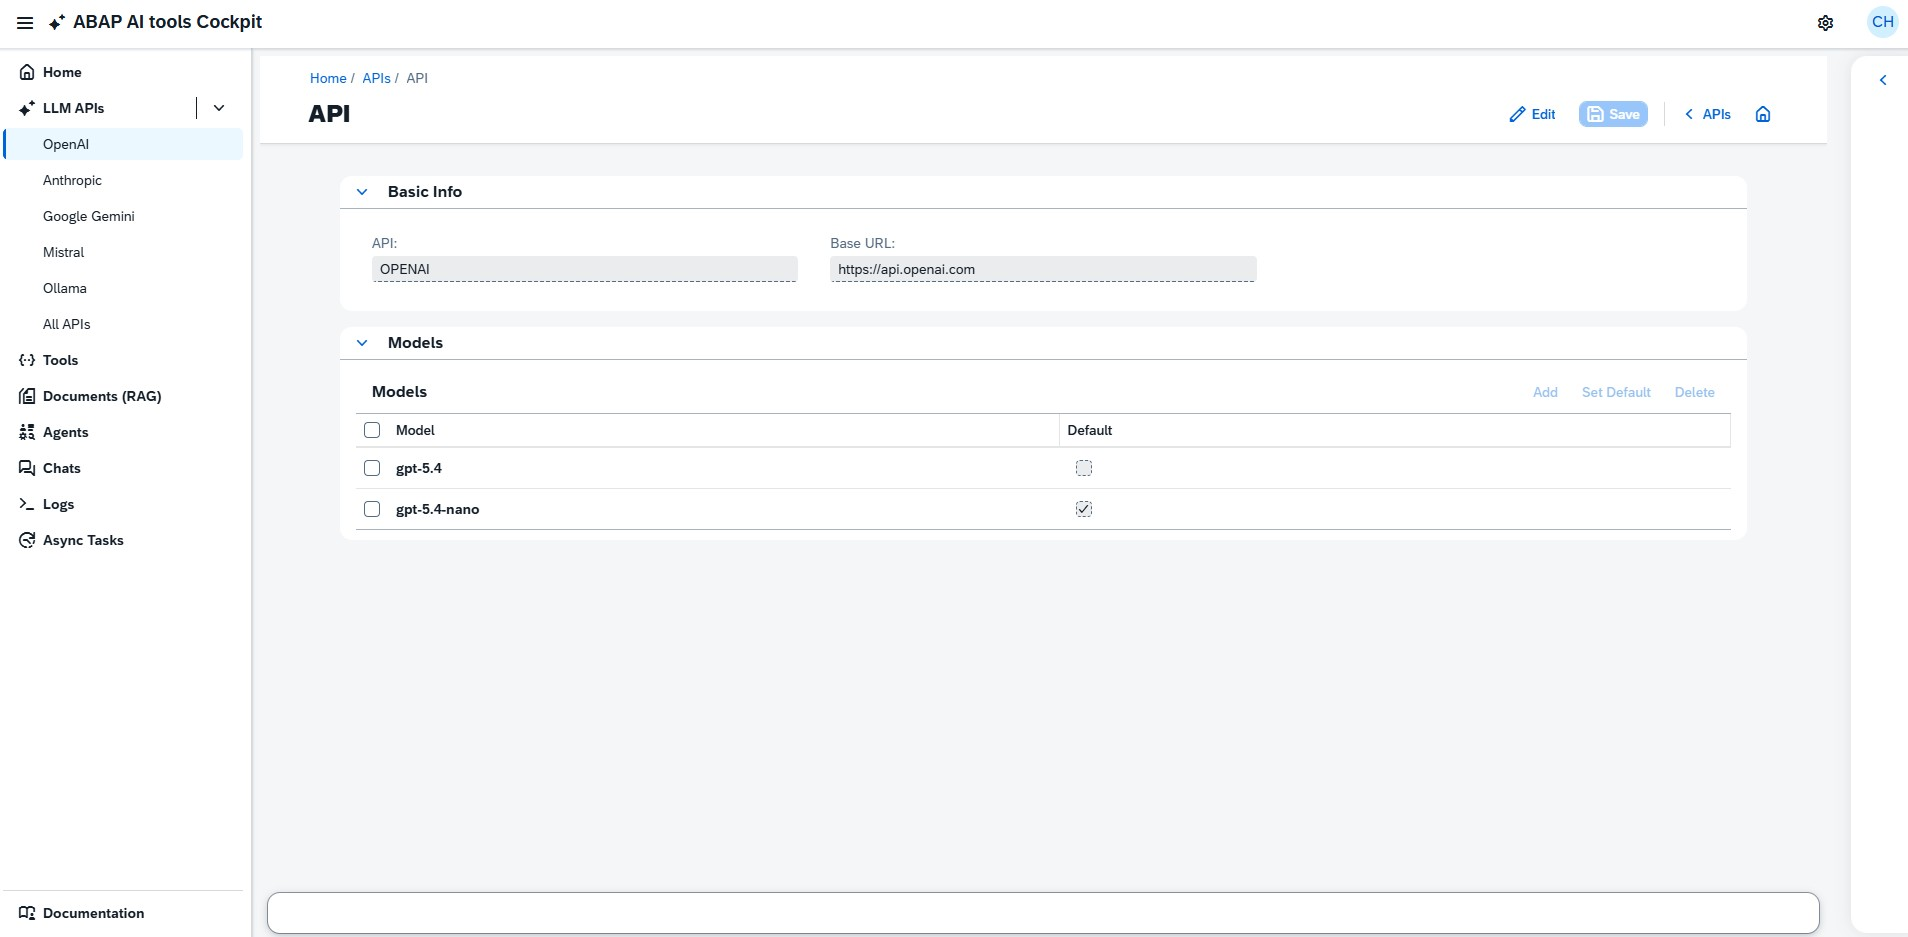
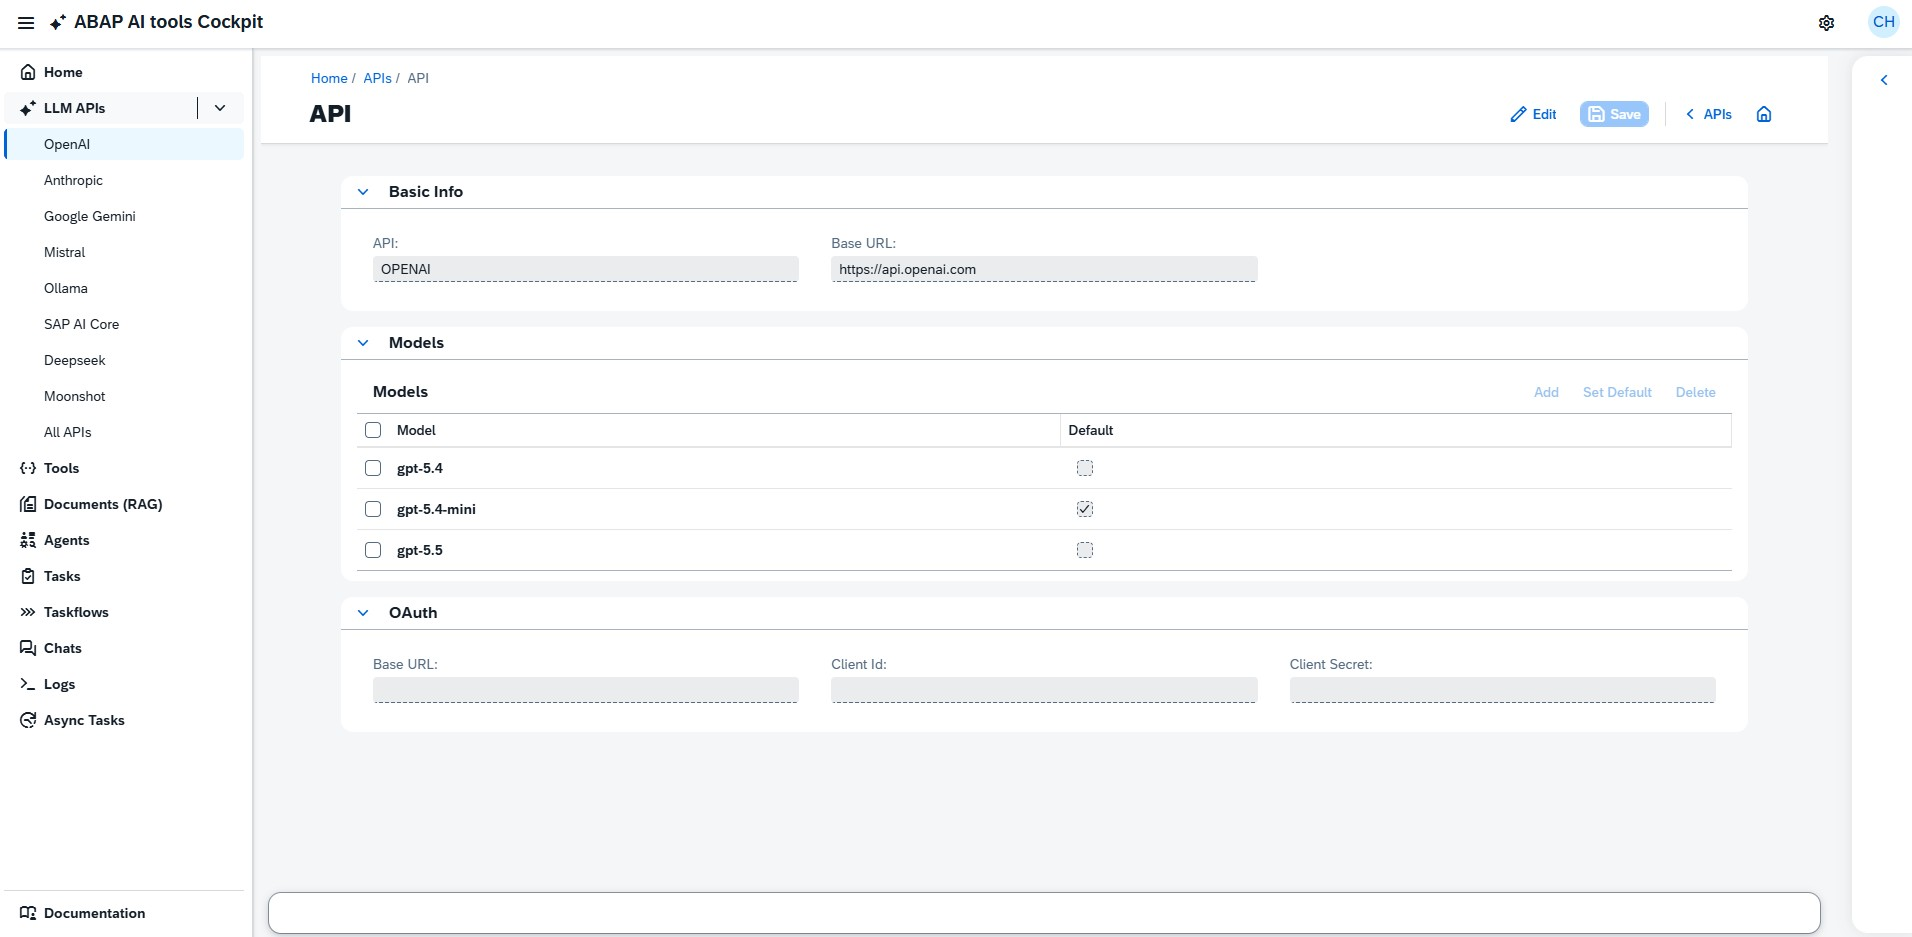
Deepseek and Moonshot AI support

diff --git a/cockpit/webapp/controller/Chat.js b/cockpit/webapp/controller/Chat.js
@@ -631,6 +631,8 @@ sap.ui.define([
 
                         case 'MISTRAL':
                         case 'SAP_AI_CORE':
+                        case 'DEEPSEEK':
+                        case 'MOONSHOT':    
                             
                             msg = JSON.parse(newMessage.msg);
 
@@ -729,6 +731,52 @@ sap.ui.define([
                             break;
 
                         default:
+                            
+                            msg = JSON.parse(newMessage.msg);
+
+                            try {
+                                const parsed = JSON.parse(msg.content);
+                                msg.content = parsed;
+                            } catch (error) {
+                                //No problem ...
+                            }
+
+                            if (msg.role.toLowerCase() === "user") {
+                                
+                                if (tempUserMsg) {
+                                    // Discard temporary user message rendered
+                                    tempUserMsg.remove();
+                                }
+
+                                this.removeLlmTyping();
+
+                                this.addUserMessage(msg.content, newMessage.seqno, this._getDateTime(newMessage.msgDate, newMessage.msgTime) );
+
+                            }
+
+                            if (msg.role.toLowerCase() === "assistant" && msg.type.toLowerCase() !== "function_call" && msg.type.toLowerCase() !== "function_call_output") {
+
+                                if (Array.isArray(msg.content)) {
+
+                                    msg.content.forEach(contentElement => {
+
+                                        if (element.type === "text") {
+
+                                            this.removeLlmTyping();
+
+                                            this.addLlmMessage(contentElement.text, newMessage.seqno );
+                                        }
+                                    
+                                    });
+
+                                } else {
+
+                                    this.removeLlmTyping();
+
+                                    this.addLlmMessage(msg.content, newMessage.seqno, this._getDateTime(newMessage.msgDate, newMessage.msgTime) );
+                                }
+                            }
+
                             break;
                     }
 

diff --git a/cockpit/webapp/controller/App.controller.js b/cockpit/webapp/controller/App.controller.js
@@ -145,14 +145,22 @@ sap.ui.define(
             ownerComponent.setOnHoldNavigation("RouteApi", { id: "MISTRAL" });
             break;
 
-          case "sap-ai-core-api":
-            ownerComponent.setOnHoldNavigation("RouteApi", { id: "SAP_AI_CORE" });
-            break;  
-
           case "ollama-api":
             ownerComponent.setOnHoldNavigation("RouteApi", { id: "OLLAMA" });
             break;  
 
+          case "sap-ai-core-api":
+            ownerComponent.setOnHoldNavigation("RouteApi", { id: "SAP_AI_CORE" });
+            break;  
+          
+          case "deepseek-api":
+            ownerComponent.setOnHoldNavigation("RouteApi", { id: "DEEPSEEK" });
+            break;  
+          
+          case "moonshot-api":
+            ownerComponent.setOnHoldNavigation("RouteApi", { id: "MOONSHOT" });
+            break; 
+            
           case "all-apis":
             ownerComponent.setOnHoldNavigation("RouteApis");
             break;
@@ -417,26 +425,28 @@ sap.ui.define(
                 {
                   title: "OpenAI",
                   key: "openai-api"
-                },
-                {
+                },{
                   title: "Anthropic",
                   key: "anthropic-api"
-                },
-                {
+                },{
                   title: "Google Gemini",
                   key: "google-api"
-                },
-                {
+                },{
                   title: "Mistral",
                   key: "mistral-api"
+                },{
+                  title: "Ollama",
+                  key: "ollama-api"
                 },{
                   title: "SAP AI Core",
                   key: "sap-ai-core-api"
                 },{
-                  title: "Ollama",
-                  key: "ollama-api"
-                },
-                {
+                  title: "Deepseek",
+                  key: "deepseek-api"
+                },{
+                  title: "Moonshot",
+                  key: "moonshot-api"
+                },{
                   title: resourceBundle.getText("allAPIs"),
                   key: "all-apis"
                 }

diff --git a/cockpit/webapp/controller/Chat.controller.js b/cockpit/webapp/controller/Chat.controller.js
@@ -103,19 +103,18 @@ sap.ui.define([
                     break;
                 
                 case 'MISTRAL':
+                case 'SAP_AI_CORE':
+                case 'DEEPSEEK':
+                case 'MOONSHOT':
                     mermaidSequenceDiagram = SequenceDiagram.createMermaidSequenceDiagramOpenAI(chat);
                     break;
 
                 case 'OLLAMA':
                     mermaidSequenceDiagram = SequenceDiagram.createMermaidSequenceDiagramOllama(chat);
                     break;
-                    
-                case 'SAP_AI_CORE':
-                    mermaidSequenceDiagram = SequenceDiagram.createMermaidSequenceDiagramOpenAI(chat);
-                    break;    
-            
+                
                 default:
-                    mermaidSequenceDiagram = "sequenceDiagram\n";
+                    mermaidSequenceDiagram = SequenceDiagram.createMermaidSequenceDiagramOpenAI(chat);
                     break;
             }
             

diff --git a/README.md b/README.md
@@ -44,6 +44,9 @@ Configure the Base URL of the API, register available LLM models, and set the de
 - Google Gemini
 - Mistral
 - Ollama
+- SAP AI Core
+- Deepseek
+- Moonshot AI
 
 **Example:** Open AI API Settings
 